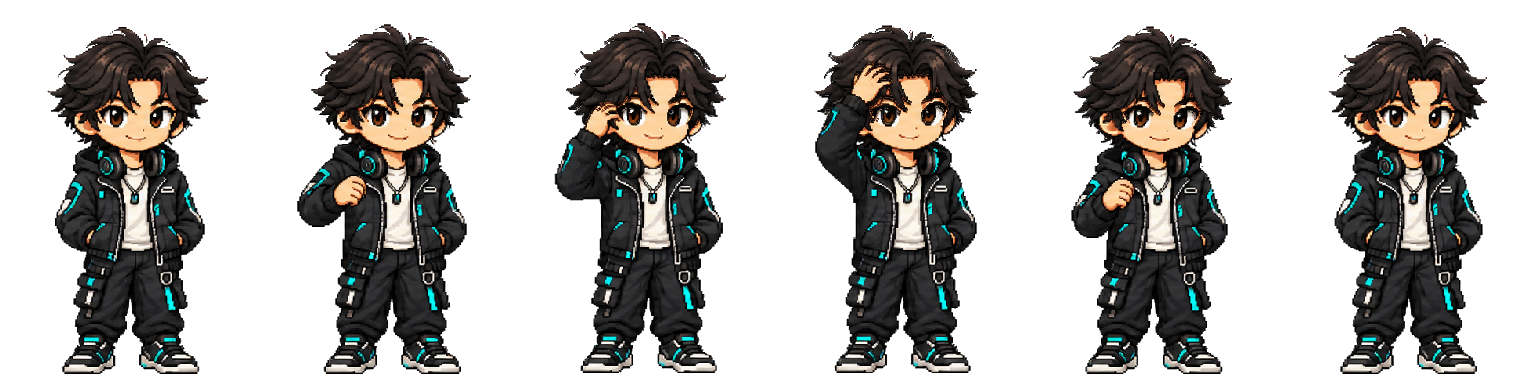
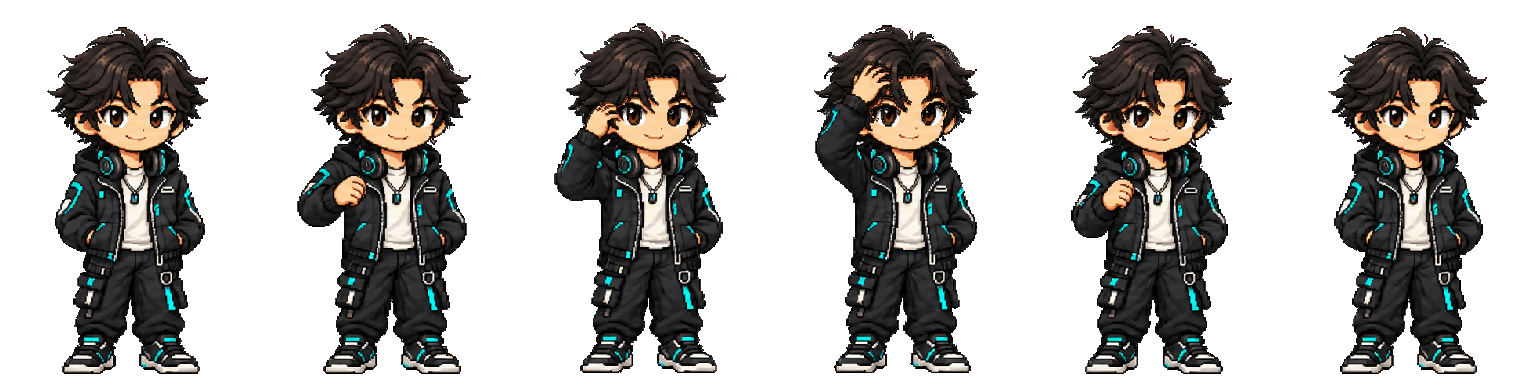
Keep broadcast audio stable during topbar actions
播出准备、播出中和收尾期间锁定设置与诊断刷新，避免音频停止后从头重建，并清理龙鑫桌面形象的浅色外缘。\n\n约束: 不改变播放时序和其他主持人素材\n已拒绝: 在设置页维护第二套隐藏播放器 | 状态同步成本过高\n置信度: 高\n范围风险: 窄\n已测试: 231 项 npm 测试；Web 生产构建；Swift release 构建；素材透明边缘测试；npm audit\n未测试: 未使用真实音乐账号完整播放一整档节目

diff --git a/src/web/App.tsx b/src/web/App.tsx
@@ -68,6 +68,7 @@ import {
 import { advanceEnvelopeElapsed, envelopeVolume, musicBedDelayRemainingMs } from "./audio-envelope.js";
 import { RadioHostAvatar } from "./RadioHostPet";
 import { resolveRadioHostPetMood } from "./radio-host-pet.js";
+import { isBroadcastNavigationLocked } from "./topbar-policy.js";
 import {
   useCallback,
   useEffect,
@@ -877,7 +878,8 @@ function App() {
                   ? "当前音源尚不能创建主持节目。"
                   : null;
   const canCreate = createBlocker === null && !isCreating;
-  const programActive = Boolean(program && ["preparing", "on_air", "closing"].includes(program.status));
+  const broadcastNavigationLocked = isBroadcastNavigationLocked(program?.status);
+  const programActive = broadcastNavigationLocked;
   const remainingSeconds = useMemo(() => {
     if (!program) return 0;
     if (program.localOnly && program.deadlineAt && ["on_air", "preparing", "closing"].includes(program.status)) {
@@ -2814,7 +2816,8 @@ function App() {
           <TopStage index="05" label="播出中" state={["preparing", "on_air"].includes(view) ? "active" : view === "ended" ? "done" : "upcoming"} />
         </nav>}
         <div className="topbar-actions">
-          <IconButton label={view === "settings" ? "返回节目" : "本机设置"} className={`topbar-tool topbar-tool-settings${view === "settings" ? " is-active" : ""}`} onClick={() => {
+          <IconButton label={view === "settings" ? "返回节目" : broadcastNavigationLocked ? "播出中不可打开设置" : "本机设置"} disabled={broadcastNavigationLocked} className={`topbar-tool topbar-tool-settings${view === "settings" ? " is-active" : ""}`} onClick={() => {
+            if (broadcastNavigationLocked) return;
             if (view === "settings") {
               setView(settingsReturnViewRef.current === "settings" ? "setup" : settingsReturnViewRef.current);
               return;
@@ -2823,7 +2826,11 @@ function App() {
             cancelVoicePreview();
             setView("settings");
           }}>{view === "settings" ? <X size={20} strokeWidth={1.8} /> : <Settings2 size={20} strokeWidth={1.8} />}</IconButton>
-          <IconButton label="刷新诊断" className="topbar-tool topbar-tool-refresh" onClick={() => { void refreshSources(); void refreshHealth(); }}><RefreshCw size={20} strokeWidth={1.8} /></IconButton>
+          <IconButton label={broadcastNavigationLocked ? "播出中暂停刷新诊断" : "刷新诊断"} disabled={broadcastNavigationLocked} className="topbar-tool topbar-tool-refresh" onClick={() => {
+            if (broadcastNavigationLocked) return;
+            void refreshSources();
+            void refreshHealth();
+          }}><RefreshCw size={20} strokeWidth={1.8} /></IconButton>
         </div>
       </header>
 

diff --git a/tests/desktop-pet-assets.test.ts b/tests/desktop-pet-assets.test.ts
@@ -1,0 +1,43 @@
+import assert from "node:assert/strict";
+import { readFile } from "node:fs/promises";
+import { createRequire } from "node:module";
+import test from "node:test";
+
+interface DecodedPng {
+  width: number;
+  height: number;
+  data: Buffer;
+}
+
+const require = createRequire(import.meta.url);
+const { PNG } = require("pngjs") as { PNG: { sync: { read(input: Buffer): DecodedPng } } };
+
+const spritePaths = [
+  "public/hosts/animated/longxin/music.png",
+  "public/hosts/animated/longxin/speaking.png",
+];
+
+test("Long Xin desktop sprites keep six transparent frames without a light edge halo", async () => {
+  for (const path of spritePaths) {
+    const png = PNG.sync.read(await readFile(path));
+    assert.equal(png.width, 1536, `${path} must keep six 256px frames`);
+    assert.equal(png.height, 384);
+
+    let lightEdgePixels = 0;
+    const alphaAt = (x: number, y: number) => png.data[(y * png.width + x) * 4 + 3];
+    for (let y = 0; y < png.height; y += 1) {
+      for (let x = 0; x < png.width; x += 1) {
+        const offset = (y * png.width + x) * 4;
+        const [red, green, blue, alpha] = png.data.subarray(offset, offset + 4);
+        if (alpha === 0) continue;
+        const touchesTransparency = [
+          [x - 1, y], [x + 1, y], [x, y - 1], [x, y + 1],
+        ].some(([nextX, nextY]) => nextX < 0 || nextY < 0 || nextX >= png.width || nextY >= png.height || alphaAt(nextX, nextY) === 0);
+        if (touchesTransparency && Math.min(red, green, blue) > 145 && Math.max(red, green, blue) - Math.min(red, green, blue) < 55) {
+          lightEdgePixels += 1;
+        }
+      }
+    }
+    assert.ok(lightEdgePixels < 100, `${path} still has ${lightEdgePixels} light halo pixels`);
+  }
+});

diff --git a/tests/topbar-policy.test.ts b/tests/topbar-policy.test.ts
@@ -1,0 +1,18 @@
+import assert from "node:assert/strict";
+import test from "node:test";
+import { isBroadcastNavigationLocked } from "../src/web/topbar-policy.js";
+
+test("settings and diagnostics stay locked while a broadcast can own audio", () => {
+  assert.equal(isBroadcastNavigationLocked("preparing"), true);
+  assert.equal(isBroadcastNavigationLocked("on_air"), true);
+  assert.equal(isBroadcastNavigationLocked("closing"), true);
+});
+
+test("topbar navigation remains available outside an active broadcast", () => {
+  assert.equal(isBroadcastNavigationLocked(undefined), false);
+  assert.equal(isBroadcastNavigationLocked("draft"), false);
+  assert.equal(isBroadcastNavigationLocked("awaiting_confirmation"), false);
+  assert.equal(isBroadcastNavigationLocked("completed"), false);
+  assert.equal(isBroadcastNavigationLocked("stopped"), false);
+  assert.equal(isBroadcastNavigationLocked("failed"), false);
+});

diff --git a/src/web/topbar-policy.ts b/src/web/topbar-policy.ts
@@ -1,0 +1,7 @@
+import type { ProgramStatus } from "../shared/contracts.js";
+
+const BROADCAST_NAVIGATION_LOCKED_STATUSES = new Set<ProgramStatus>(["preparing", "on_air", "closing"]);
+
+export function isBroadcastNavigationLocked(status?: ProgramStatus): boolean {
+  return status !== undefined && BROADCAST_NAVIGATION_LOCKED_STATUSES.has(status);
+}
